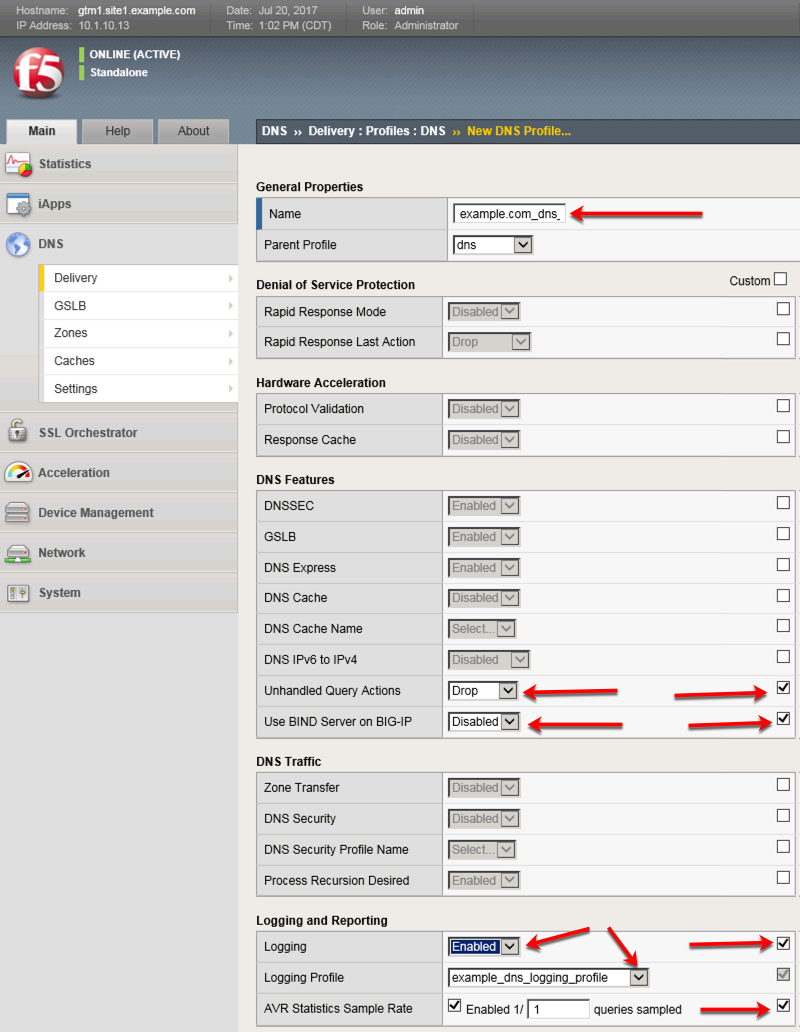
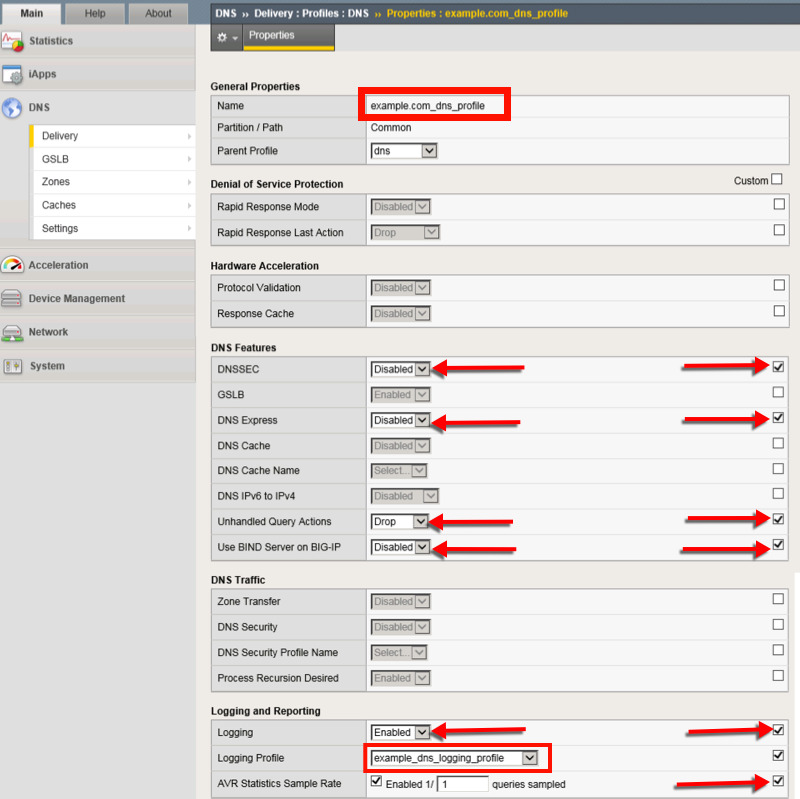
its 2018 - lets modernize

diff --git a/docs/class2/module1/lab02/task2.rst b/docs/class2/module1/lab02/task2.rst
@@ -1,13 +1,28 @@
 DNS Profile
 ############################################
 
-A DNS profile controls the way a listener processes a query.
+|dns-profile_link|
+
+.. |dns-profile_link| raw:: html
+
+   <a href="https://support.f5.com/csp/article/K21520582" target="_blank">A DNS profile controls the way a listener processes a query</a>
 
 .. note::  **It is required to complete the following task on both gtm1.site1 and gtm1.site2**
 
-Navigate to: **DNS > Delivery > Profiles > DNS: Create**
+|site1_create_dns-profile|
+
+.. |site1_create_dns-profile| raw:: html
+
+   On gtm1.site<b>1</b> navigate to: <a href="https://gtm1.site1.example.com/tmui/Control/jspmap/tmui/dns/profile/dns/create.jsp" target="_blank">DNS ›› Delivery : Profiles : DNS</a>
+
+|site2_create_dns-profile|
+
+.. |site2_create_dns-profile| raw:: html
+
+   On gtm1.site<b>2</b> navigate to: <a href="https://gtm1.site2.example.com/tmui/Control/jspmap/tmui/dns/profile/dns/create.jsp" target="_blank">DNS ›› Delivery : Profiles : DNS</a>
 
 .. image:: /_static/class1/dns_profile_flyout.png
+   :align: left
 
 Create a new DNS profile as shown in the following table.
 
@@ -16,6 +31,8 @@ Create a new DNS profile as shown in the following table.
    :widths: 15, 15
 
    "Name", "example.com_dns_profile"
+   "DNSSEC", "Disabled"
+   "DNS Express", "Disabled"
    "Unhandled Query Action", "Drop"
    "Use BIND Server on Big-IP", "Disabled"
    "Logging", "Enabled"
@@ -23,15 +40,11 @@ Create a new DNS profile as shown in the following table.
    "AVR statistics Sample Rate", "Enabled, 1/1 queries sampled"
 
 .. image:: /_static/class1/dns_profile_settings.png
-
-https://gtm1.site1.example.com/tmui/Control/jspmap/tmui/dns/profile/dns/create.jsp
-
-https://gtm1.site2.example.com/tmui/Control/jspmap/tmui/dns/profile/dns/create.jsp
+   :align: left
 
 TMSH command for both gtm1.site1 and gtm1.site2:
 
 .. admonition:: TMSH
 
-   tmsh create ltm profile dns example.com_dns_profile use-local-bind no unhandled-query-action drop log-profile example_dns_logging_profile enable-logging yes avr-dnsstat-sample-rate 1
+   tmsh create ltm profile dns example.com_dns_profile use-local-bind no unhandled-query-action drop log-profile example_dns_logging_profile enable-logging yes avr-dnsstat-sample-rate 1 enable-dns-express no enable-dnssec no
 
-https://support.f5.com/csp/article/K14510

diff --git a/docs/class2/module1/lab02/task1.rst b/docs/class2/module1/lab02/task1.rst
@@ -11,19 +11,17 @@ Logging
 
    .. note::  **It is required to complete the following task on both gtm1.site1 and gtm1.site2**
 
-   Navigate to: **System  ››  Logs : Configuration : Log Publishers**
-
    |site1_create_publisher|
 
    .. |site1_create_publisher| raw:: html
 
-      <a href="https://gtm1.site1.example.com/tmui/Control/jspmap/tmui/system/log/create_publisher.jsp" target="_blank">gtm1.<b>site1</b></a>
+      On gtm1.site<b>1</b> navigate to: <a href="https://gtm1.site1.example.com/tmui/Control/jspmap/tmui/system/log/create_publisher.jsp" target="_blank">System  ››  Logs : Configuration : Log Publishers</a>
 
    |site2_create_publisher|
 
    .. |site2_create_publisher| raw:: html
 
-      <a href="https://gtm1.site2.example.com/tmui/Control/jspmap/tmui/system/log/create_publisher.jsp" target="_blank">gtm1.<b>site2</b></a>
+      On gtm1.site<b>2</b> navigate to: <a href="https://gtm1.site2.example.com/tmui/Control/jspmap/tmui/system/log/create_publisher.jsp" target="_blank">System  ››  Logs : Configuration : Log Publishers</a>
 
    .. image:: /_static/class1/system_log_publisher_flyout.png
       :align: left
@@ -50,19 +48,17 @@ Logging
 
    .. note::  **It is required to complete the following task on both gtm1.site1 and gtm1.site2**
 
-   Navigate to: **DNS > Delivery > Profiles > Other > DNS Logging: Create**
-
    |site1_create_profile|
 
    .. |site1_create_profile| raw:: html
 
-      <a href="https://gtm1.site1.example.com/tmui/Control/jspmap/tmui/dns/profile/dns_log/create.jsp" target="_blank">gtm1.<b>site1</b></a>
+      On gtm1.site<b>1</b> navigate to: <a href="https://gtm1.site1.example.com/tmui/Control/jspmap/tmui/dns/profile/dns_log/create.jsp" target="_blank">DNS >> Delivery : Profiles : Other : DNS Logging</a>
 
    |site2_create_profile|
 
    .. |site2_create_profile| raw:: html
 
-      <a href="https://gtm1.site2.example.com/tmui/Control/jspmap/tmui/dns/profile/dns_log/create.jsp" target="_blank">gtm1.<b>site2</b></a>
+      On gtm1.site<b>2</b> navigate to: <a href="https://gtm1.site2.example.com/tmui/Control/jspmap/tmui/dns/profile/dns_log/create.jsp" target="_blank">DNS >> Delivery : Profiles : Other : DNS Logging</a>
 
    .. image:: /_static/class1/dns_logging_profile_flyout.png
       :align: left

diff --git a/docs/class2/module1/lab02/task4.rst b/docs/class2/module1/lab02/task4.rst
@@ -1,13 +1,28 @@
 TCP Profile
 ============================
 
-A TCP profile is associated with a listener.
+|tpc-profile_link|
+
+.. |tpc-profile_link| raw:: html
+
+   <a href="https://support.f5.com/csp/article/K10711911" target="_blank">A TCP profile is associated with a listener</a>
 
 .. note:: **It is required to complete the following task on both gtm1.site1 and gtm1.site2**
 
-Navigate to: **DNS  ››  Delivery : Profiles : Protocol : TCP**
+|site1-tcp-profile_link|
 
+.. |site1-tcp-profile_link| raw:: html
+
+   On gtm1.site<b>1</b> navigate to: <a href="https://gtm1.site1.example.com/tmui/Control/jspmap/tmui/dns/profile/tcp/create.jsp" target="_blank">DNS  ››  Delivery : Profiles : Protocol : TCP</a>
+                                              
+|site2-tcp-profile_link|
+
+.. |site2-tcp-profile_link| raw:: html
+
+   On gtm1.site<b>2</b> navigate to: <a href="https://gtm1.site2.example.com/tmui/Control/jspmap/tmui/dns/profile/tcp/create.jsp" target="_blank">DNS  ››  Delivery : Profiles : Protocol : TCP</a>
+   
 .. image:: /_static/class1/dns_profile_tcp_flyout.png
+   :align: left
 
 Create a new TCP profile as shown in the following table.
 
@@ -19,13 +34,10 @@ Create a new TCP profile as shown in the following table.
    "Parent Profile", "f5-tcp-wan"
 
 .. image:: /_static/class1/dns_profile_tcp.png
-
-https://gtm1.site1.example.com/tmui/Control/jspmap/tmui/dns/profile/tcp/create.jsp
-
-https://gtm1.site2.example.com/tmui/Control/jspmap/tmui/dns/profile/tcp/create.jsp
+   :align: left
 
 TMSH Command for both gtm1.site and gtm1.site2:
 
 .. admonition:: TMSH
 
-   tmsh create ltm profile tcp example.com_tcp-dns_profile defaults-from tcp-wan-optimized
+   tmsh create ltm profile tcp example.com_tcp-dns_profile defaults-from f5-tcp-wan

diff --git a/docs/class2/module1/lab02/task3.rst b/docs/class2/module1/lab02/task3.rst
@@ -5,9 +5,20 @@ A UDP profile is associated with a listener.
 
 .. note::  **It is required to complete the following task on both gtm1.site1 and gtm1.site2**
 
-Navigate to: **DNS  ››  Delivery : Profiles : Protocol : UDP**
+|site1-udp-profile_link|
+
+.. |site1-udp-profile_link| raw:: html
+
+   On gtm1.site<b>1</b> navigate to: <a href="https://gtm1.site1.example.com/tmui/Control/jspmap/tmui/dns/profile/udp/create.jsp" target="_blank">DNS  ››  Delivery : Profiles : Protocol : UDP</a>
+
+|site2-udp-profile_link|
+
+.. |site2-udp-profile_link| raw:: html
+
+   On gtm1.site<b>2</b> navigate to: <a href="https://gtm1.site2.example.com/tmui/Control/jspmap/tmui/dns/profile/udp/create.jsp" target="_blank">DNS  ››  Delivery : Profiles : Protocol : UDP</a>
 
 .. image:: /_static/class1/udp-dns_profile_flyout.png
+   :align: left
 
 Create a new UDP profile as shown in the following table:
 
@@ -19,10 +30,7 @@ Create a new UDP profile as shown in the following table:
    "Parent Profile", "udp_gtm_dns"
 
 .. image:: /_static/class1/udp-dns_profile.png
-
-https://gtm1.site1.example.com/tmui/Control/jspmap/tmui/dns/profile/udp/create.jsp
-
-https://gtm1.site2.example.com/tmui/Control/jspmap/tmui/dns/profile/udp/create.jsp
+   :align: left
 
 TMSH command for both gtm1.site1 and gtm1.site2:
 

diff --git a/docs/class2/class2.rst b/docs/class2/class2.rst
@@ -9,3 +9,5 @@ DNS
    :glob:
 
    module1/module*
+
+
